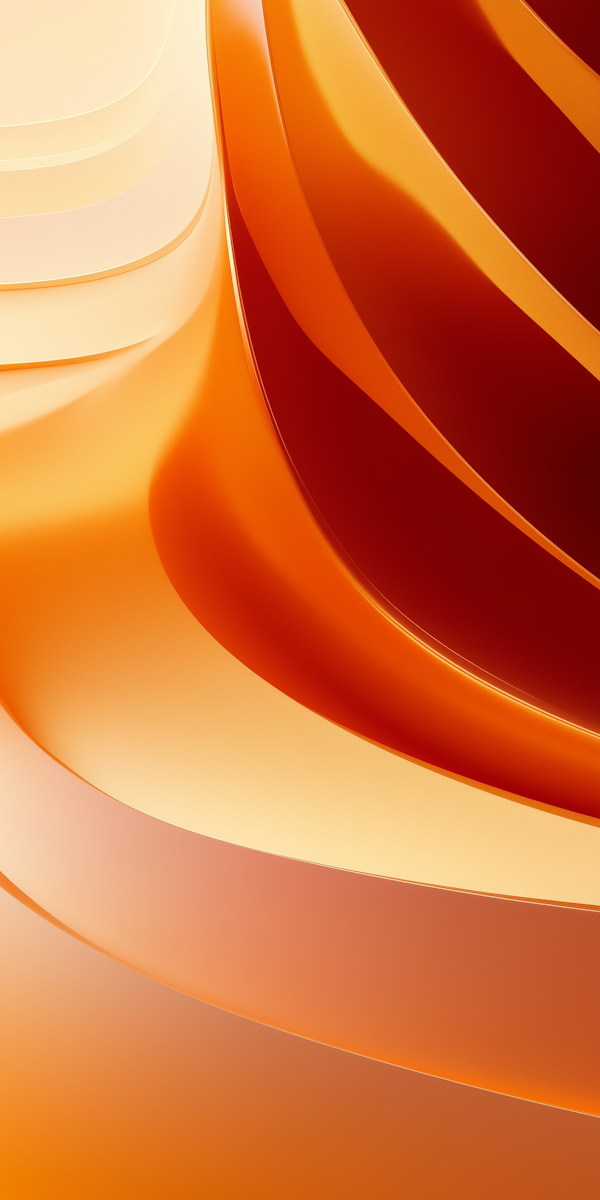
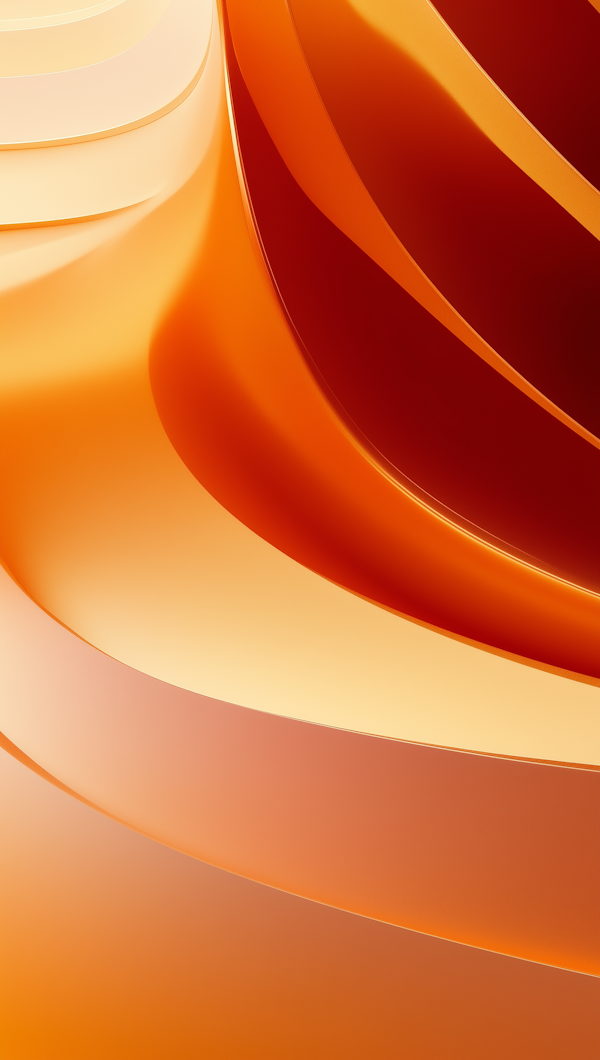
feat: improved value proposition

diff --git a/src/pages/Home.tsx b/src/pages/Home.tsx
@@ -20,10 +20,6 @@ import CalvinImg from '../assets/CALVIN.jpg';
 import KeYingImg from '../assets/KeYing.JPG';
 import PeiXuanImg from '../assets/PeiXuan.JPG';
 import BaoShengImg from '../assets/BaoSheng.jpeg';
-import webDesignImage from '../assets/cyber-security-expert-working-with-technology-neon-lights.jpg';
-import brandingImage from '../assets/3d-rendering-futuristic-technologies.jpg';
-import itSupportImage from '../assets/761.jpg';
-import trainingImage from '../assets/futurism-perspective-digital-nomads-lifestyle.jpg';
 import sleekCatImage from '../assets/Sleek Cat.png';
 import tabletLoginVideo from '../assets/videos/Tablet login.mp4';
 import reactTechImg from '../assets/tech/react.png';
@@ -34,6 +30,11 @@ import cloudTechImg from '../assets/tech/aws-cloud.png';
 import mlTechImg from '../assets/tech/machine-learning-logo.png';
 import Squares from '../components/Squares';
 import HackathonLoops from '../components/HackathonLoops';
+import uiuxSvg from '../assets/videos/uiux.svg';
+import marketingSvg from '../assets/videos/marketing.svg';
+import supportSvg from '../assets/videos/support.svg';
+import onboardingSvg from '../assets/videos/onboarding.svg';
+import vibrantAbstractDesign from '../assets/Vibrant Abstract Design.png';
 
 // Reusable scroll animation component
 const ScrollReveal = ({ children, delay = 0, className = '' }: { children: React.ReactNode; delay?: number; className?: string }) => {
@@ -126,37 +127,39 @@ const Home = () => {
     );
   };
 
-  // Orbital ring component
-  const OrbitalRing = ({ size, duration, delay, reverse, children }: { size: number; duration: number; delay: number; reverse?: boolean; children: React.ReactNode }) => {
-    return (
-      <div className="absolute rounded-full border border-brand-primary/20" style={{ width: size, height: size }}>
-        <motion.div
-          className="w-full h-full relative"
-          animate={{ rotate: reverse ? -360 : 360 }}
-          transition={{ repeat: Infinity, duration, ease: 'linear', delay }}
-        >
-          {children}
-        </motion.div>
-      </div>
-    );
-  };
-
-  const OrbitalItem = ({ icon, color, angle = 0 }: { icon: React.ReactNode; color: string; angle?: number }) => {
-    return (
-      <div
-        className={`absolute top-0 left-1/2 -translate-x-1/2 -translate-y-1/2 w-10 h-10 ${color} rounded-full flex items-center justify-center text-brand-primary shadow-lg`}
-        style={{ transform: `rotate(${angle}deg) translateY(-50%) rotate(-${angle}deg)` }}
-      >
-        {icon}
-      </div>
-    );
-  };
-
   const servicesData = [
-    { name: 'Web Solutions', icon: Globe2, desc: 'Modern websites and digital experiences', color: 'bg-accent-dark' },
-    { name: 'Branding', icon: Palette, desc: 'Visual identities that stick', color: 'bg-brand-primary' },
-    { name: 'IT Support', icon: Cpu, desc: 'Robust technical solutions', color: 'bg-accent-light' },
-    { name: 'Training', icon: BookOpen, desc: 'Empowering through knowledge', color: 'bg-brand-tertiary' },
+    { 
+      name: 'Web Solutions', 
+      icon: Globe2, 
+      desc: 'Modern websites and digital experiences', 
+      color: 'bg-accent-dark',
+      media: uiuxSvg,
+      quote: "\"Our website looks outdated and doesn't convert visitors. We're losing potential customers to competitors with better online presence.\""
+    },
+    { 
+      name: 'Branding', 
+      icon: Palette, 
+      desc: 'Visual identities that stick', 
+      color: 'bg-brand-primary',
+      media: marketingSvg,
+      quote: "\"We don't have a consistent brand identity. Our marketing materials look unprofessional and don't reflect our company values.\""
+    },
+    { 
+      name: 'IT Support', 
+      icon: Cpu, 
+      desc: 'Robust technical solutions', 
+      color: 'bg-accent-light',
+      media: supportSvg,
+      quote: "\"Our IT systems keep breaking down, causing downtime and lost productivity. We need reliable technical support.\""
+    },
+    { 
+      name: 'Training', 
+      icon: BookOpen, 
+      desc: 'Empowering through knowledge', 
+      color: 'bg-brand-tertiary',
+      media: onboardingSvg,
+      quote: "\"Our team struggles with new technologies. We need training to stay competitive and improve our digital skills.\""
+    },
   ];
 
   const teamMembers = [
@@ -180,10 +183,10 @@ const Home = () => {
       {/* Section 1: Hero Section */}
       <section
         onMouseMove={handleMouseMove}
-        className="relative h-[calc(100dvh-4rem)] flex flex-col items-center justify-center overflow-hidden"
+        className="relative bg-brand-cream h-[calc(100dvh-4rem)] flex flex-col items-center justify-center overflow-hidden z-20"
       >
         {/* Animated Squares Background */}
-        <div className="absolute inset-0 z-0 opacity-30 pointer-events-none">
+        <div className="absolute inset-0 opacity-30 pointer-events-none z-30">
           <Squares
             speed={0.5}
             squareSize={30}
@@ -242,14 +245,6 @@ const Home = () => {
             </button>
           </motion.div>
         </div>
-
-        <motion.div
-          animate={{ y: [0, 10, 0] }}
-          transition={{ repeat: Infinity, duration: 2 }}
-          className="absolute bottom-10 left-1/2 -translate-x-1/2 text-brand-primary/60"
-        >
-          <ArrowDown className="w-6 h-6" />
-        </motion.div>
       </section>
 
       {/* Sleek Cat Image - Intermediary Overlapping Both Sections */}
@@ -273,10 +268,10 @@ const Home = () => {
       </section>
 
       {/* Section 2: Market Opportunity - Bento Box */}
-      <section className="py-24 bg-brand-quaternary/10 relative -mt-40 pt-48 shadow-[inset_0_10px_10px_-10px_rgba(0,0,0,0.5)]">
+      <section className="py-24 bg-[#ECE0BF] relative -mt-40 pt-48 shadow-[inset_0_10px_10px_-10px_rgba(0,0,0,0.5)] z-10">
         <div className="max-w-7xl mx-auto px-4 sm:px-6 lg:px-8">
           <ScrollReveal>
-            <h2 className="text-4xl md:text-6xl font-bold text-brand-primary mb-6 text-center">
+            <h2 className="text-4xl md:text-6xl font-bold text-brand-primary mb-6 mt-10 text-center">
               The Digital Divide is <span className="text-accent-dark">Real</span>
             </h2>
           </ScrollReveal>
@@ -338,60 +333,68 @@ const Home = () => {
         </div>
       </section>
 
-      
-
-      {/* Section 3: Our Solution - Services Overview - Bento Box */}
-      <section className="py-24 bg-brand-cream relative">
-        <div className="max-w-7xl mx-auto px-4 sm:px-6 lg:px-8">
-          <ScrollReveal>
-            <h2 className="text-4xl md:text-6xl font-bold text-brand-primary mb-4 text-center">
-              Four Pillars of <span className="text-accent-dark">Growth</span>
-            </h2>
-            <p className="text-xl text-brand-primary/70 max-w-2xl mx-auto text-center mb-16">
-              Our diversified revenue streams reduce risk and maximize growth potential
-            </p>
-          </ScrollReveal>
-
-          {/* Bento Grid - Varied sizes for organic feel */}
-          <div className="grid grid-cols-1 md:grid-cols-2 lg:grid-cols-4 gap-4 md:gap-6 auto-rows-fr">
-            {servicesData.map((service, idx) => {
-              // Create varied spans for bento effect
-              const spans = [
-                'md:col-span-2 lg:col-span-2', // Web Solutions - large
-                'md:col-span-1 lg:col-span-1', // Branding - small
-                'md:col-span-1 lg:col-span-1', // IT Support - small
-                'md:col-span-2 lg:col-span-1', // Training - medium
-              ];
-              const isLarge = idx === 0 || idx === 3;
-              
-              return (
-                <ScrollReveal key={idx} delay={idx * 0.1}>
-                  <motion.div
-                    whileHover={{ y: -5, scale: 1.02 }}
-                    className={`${spans[idx]} group relative overflow-hidden rounded-3xl bg-white border border-brand-quaternary/20 hover:border-brand-primary/50 transition-all duration-500 ${isLarge ? 'p-8 md:p-10 lg:p-12' : 'p-6 md:p-8'} flex flex-col cursor-pointer`}
-                    onClick={() => navigate(`/services/${getServiceSlug(service.name)}`)}
-                  >
-                    <div className={`absolute inset-0 ${service.color} opacity-0 group-hover:opacity-10 transition-opacity duration-500`} />
-                    <div className="relative z-10 flex flex-col h-full">
-                      <div className={`${isLarge ? 'w-20 h-20' : 'w-16 h-16'} ${service.color} rounded-2xl flex items-center justify-center text-white mb-4 md:mb-6 group-hover:scale-110 transition-transform duration-300 shadow-xl`}>
-                        <service.icon className={`${isLarge ? 'w-10 h-10' : 'w-8 h-8'}`} />
-                      </div>
-                      <h3 className={`${isLarge ? 'text-3xl md:text-4xl' : 'text-2xl md:text-2xl'} font-bold text-brand-primary mb-3 md:mb-4`}>{service.name}</h3>
-                      <p className={`text-brand-primary/70 ${isLarge ? 'text-base md:text-lg' : 'text-sm md:text-base'} mb-4 md:mb-6 group-hover:text-brand-primary transition-colors grow`}>{service.desc}</p>
-                      <div className="opacity-0 group-hover:opacity-100 transition-all duration-300 transform translate-x-4 group-hover:translate-x-0 flex items-center text-accent-dark font-bold">
-                        Learn More <ArrowRight className="w-4 h-4 ml-2" />
-                      </div>
-                    </div>
-                  </motion.div>
-                </ScrollReveal>
-              );
-            })}
+      {/* Section 3: Our Solution - Services Overview - Two Column Layout */}
+      <section className="relative">
+        {/* Fixed Background Image - Stays in place while services scroll */}
+        <div className="fixed top-16 right-0 w-1/2 h-[calc(100dvh-4rem)] z-0 pointer-events-none hidden md:flex items-center justify-center">
+          <div className="h-full w-full flex items-center justify-center p-4 lg:p-4 bg-white/50">
+            <img 
+              src={vibrantAbstractDesign}
+              alt="Vibrant Abstract Design"
+              className='rounded-4xl max-h-full mx-auto'
+            />
           </div>
         </div>
+
+        {servicesData.map((service, idx) => (
+          <div className='min-h-screen flex flex-col md:flex-row relative overflow-hidden'>
+            {/* Left Column - Quote & Service Name */}
+            <div className="w-full md:w-1/2 flex flex-col justify-center px-4 sm:px-6 lg:px-12 py-16 md:py-24 relative z-10">
+              <ScrollReveal delay={0.2}>
+                <div className="relative mb-8 md:mb-12">
+                  <blockquote className="text-xl md:text-2xl lg:text-3xl text-brand-primary/90 italic leading-relaxed font-serif relative">
+                    {service.quote}
+                  </blockquote>
+                </div>
+              </ScrollReveal>
+              
+              <ScrollReveal delay={0.3}>
+                <h2 className="text-5xl md:text-6xl lg:text-7xl xl:text-8xl font-black text-brand-primary mb-8 md:mb-12 leading-20">
+                  <span className="text-accent-dark">{service.name}</span>
+                </h2>
+              </ScrollReveal>
+
+              <ScrollReveal delay={0.4}>
+                <motion.button
+                  whileHover={{ scale: 1.05 }}
+                  whileTap={{ scale: 0.95 }}
+                  onClick={() => navigate(`/services/${getServiceSlug(service.name)}`)}
+                  className="inline-flex items-center gap-3 px-6 md:px-8 py-3 md:py-4 bg-accent-dark text-white rounded-full font-bold text-base md:text-lg hover:shadow-xl transition-all cursor-pointer"
+                >
+                  Learn More
+                  <ArrowRight className="w-5 h-5" />
+                </motion.button>
+              </ScrollReveal>
+            </div>
+
+            {/* Right Column - Media (Larger Size) */}
+            <div className="w-full md:w-1/2 flex items-center justify-center p-4 md:p-8 lg:p-12 relative">
+              <ScrollReveal delay={0.3}>
+                <div className="w-full h-full flex items-center justify-center">
+                  <img 
+                    src={service.media} 
+                    alt={service.name}
+                    className="w-full h-full max-w-none object-contain scale-125 md:scale-150"
+                  />
+                </div>
+              </ScrollReveal>
+            </div>
+          </div>
+        ))}
       </section>
 
       {/* Section 4: Why Us? - Competitive Advantages - Bento Box */}
-      <section className="py-24 bg-brand-quaternary/10 relative">
+      <section className="py-24 bg-[#ECE0BF] relative">
         <div className="max-w-7xl mx-auto px-4 sm:px-6 lg:px-8">
           <ScrollReveal>
             <h2 className="text-4xl md:text-6xl font-bold text-brand-primary mb-4 text-center">
@@ -485,57 +488,6 @@ const Home = () => {
         </div>
       </section>
 
-      
-
-      {/* Section 8: Services Deep Dive */}
-      <section className="py-24 bg-brand-quaternary/10 relative">
-        <div className="max-w-7xl mx-auto px-4 sm:px-6 lg:px-8">
-          <ScrollReveal>
-            <h2 className="text-4xl md:text-6xl font-bold text-brand-primary mb-4 text-center">
-              How We Generate <span className="text-accent-dark">Value</span>
-            </h2>
-            <p className="text-xl text-brand-primary/70 max-w-2xl mx-auto text-center mb-16">
-              Custom packages starting from competitive rates
-            </p>
-          </ScrollReveal>
-
-          <div className="space-y-4">
-              {[
-              { name: 'WEB SOLUTIONS', tagline: 'We design and build modern websites', image: webDesignImage, color: 'var(--color-accent-dark)' },
-              { name: 'BRANDING', tagline: 'We shape brands for the digital world', image: brandingImage, color: 'var(--color-brand-primary)' },
-              { name: 'IT SUPPORT', tagline: 'We keep your systems running smoothly', image: itSupportImage, color: 'var(--color-accent-light)' },
-              { name: 'TRAINING', tagline: 'We make technology easy to learn', image: trainingImage, color: 'var(--color-brand-tertiary)' },
-            ].map((service, idx) => (
-              <ScrollReveal key={idx} delay={idx * 0.1}>
-                <motion.div
-                  whileHover={{ scale: 1.02 }}
-                  className="relative cursor-pointer overflow-hidden rounded-xl border border-brand-quaternary/20 group bg-white"
-                  onClick={() => navigate(`/services/${getServiceSlug(service.name)}`)}
-                >
-                  <div className="py-10 px-8 sm:px-12 relative z-10 flex items-center justify-between">
-                    <div className="flex-1">
-                      <h3 className="text-3xl md:text-5xl font-black tracking-tight text-brand-primary mb-2">{service.name}</h3>
-                      <p className="text-xl text-brand-primary/70 italic">"{service.tagline}"</p>
-                    </div>
-                    <motion.div
-                      animate={{ x: [0, 5, 0] }}
-                      transition={{ repeat: Infinity, duration: 2 }}
-                      className="hidden sm:block"
-                    >
-                      <ArrowRight className="w-8 h-8 text-brand-primary" />
-                    </motion.div>
-                  </div>
-                  <div
-                    className="absolute inset-0 opacity-0 group-hover:opacity-10 transition-opacity duration-500"
-                    style={{ backgroundColor: service.color }}
-                  />
-                </motion.div>
-              </ScrollReveal>
-            ))}
-          </div>
-        </div>
-      </section>
-
       {/* Section 9: Technology Stack */}
       <section className="py-24 bg-brand-cream relative">
         <div className="max-w-7xl mx-auto px-4 sm:px-6 lg:px-8">
@@ -585,7 +537,7 @@ const Home = () => {
       </section>
 
       {/* Section 10: Investment Opportunity */}
-      <section id="investment" className="py-24 bg-brand-quaternary/10 relative">
+      <section id="investment" className="py-24 bg-[#ECE0BF] relative">
         <div className="max-w-4xl mx-auto px-4 sm:px-6 lg:px-8">
           <ScrollReveal>
             <h2 className="text-4xl md:text-6xl font-bold text-brand-primary mb-4 text-center">

diff --git a/src/components/Footer.tsx b/src/components/Footer.tsx
@@ -3,7 +3,7 @@ import logo from '../assets/Meowieeee logo transparent bg.png';
 
 const Footer = () => {
     return (
-        <footer className="bg-brand-primary text-brand-cream pt-16 pb-4">
+        <footer className="bg-brand-primary text-brand-cream pt-16 pb-4 z-10">
         <div className="max-w-7xl mx-auto px-4 sm:px-6 lg:px-8">
           <div className="grid grid-cols-1 md:grid-cols-4 gap-12 mb-12">
             <div>
